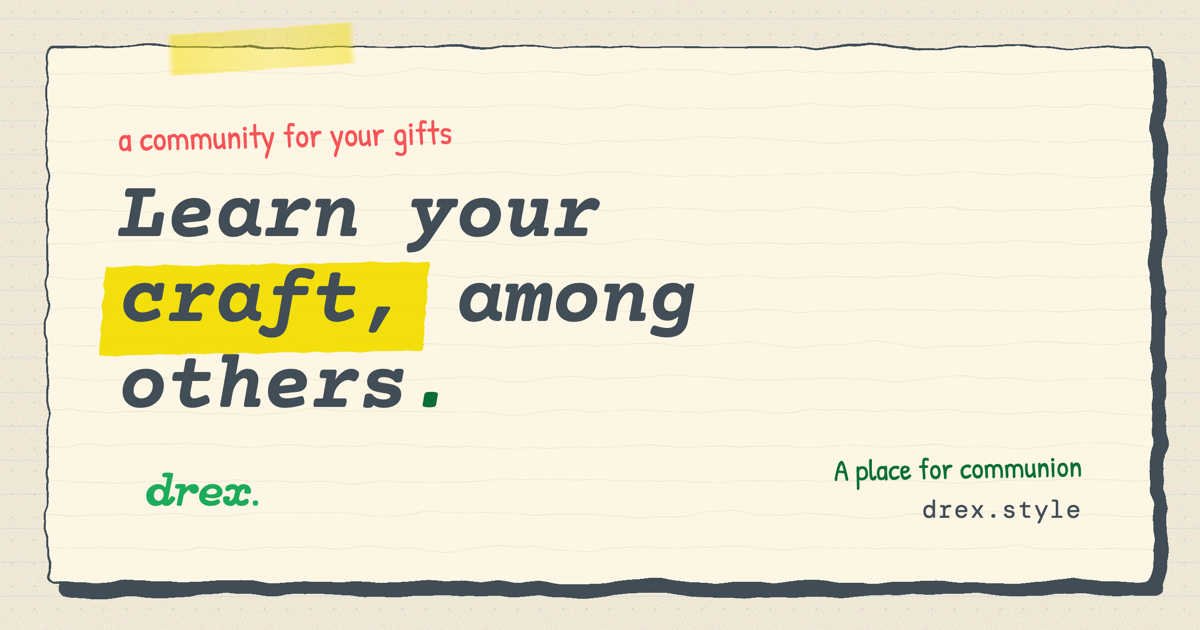
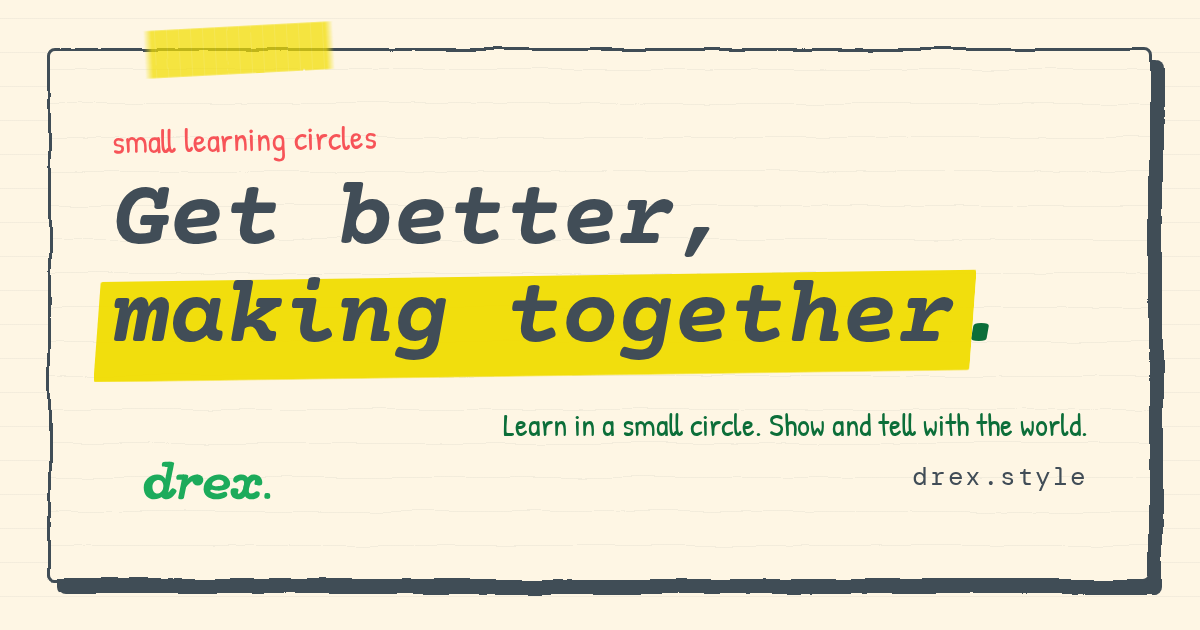
og.png, SF Penmans, cycling reflection-quotes, and a bigger pile
OG CARD — it was three positionings out of date
Every link shared to Slack/iMessage/Twitter previewed "a community for your
gifts", "Learn your craft, among others", and "A place for communion" — including
the exact word we deliberately cut. The meta tags were fixed; the image they point
at was not, and the image is what people see. New card: "small learning circles /
Get better, making together." Built from app.css, and the generator is committed at
tools/og-card.html, so next time the positioning moves the card is a re-render
rather than an archaeology project. (Wait on document.fonts or Patrick Hand
silently falls back to serif.)

THE PILE — three real circles, no blanks, no blurbs
- SF Penmans replaces the empty "your Circle? / unwritten" card. Three real
  circles read as evidence; two-plus-a-blank reads as a thin roster. The invite
  CTA moves to a line underneath, where it does the same job without costing a
  card. Photo + cover are MEDIA PLACEHOLDERs.
- Dropped the blurbs and the issue names. The tab already names the circle; the
  work should do the talking. That freed the height to grow the artefacts ~50%:
  zines 205 -> 322px, polaroids 140 -> 206px, still three across on one row.
- Fixed a real bug: the pile reuses .hand/.bot purely for rotation, but those
  classes also drive tab colour in the main pair (.bot = lazuli, default = ink),
  so the tabs were grey/blue by accident. Each circle now has a deliberate accent.
[…]

diff --git a/app.css b/app.css
@@ -772,109 +772,78 @@ html.sealed .envelope.lit-tape .hero-reel .hero-clip{opacity:1;transform:transla
   color:var(--colorado);font-size:1.2rem;transform:rotate(-1deg)}
 /* The work is the whole point of this section, so give it a wider track than the 1150px .wrap —
    at 1038px inner the zines were shrunk to thumbnails to fit three across. */
-#zine .wrap{max-width:1340px}
+#zine .wrap{max-width:1500px;padding-inline:clamp(1rem,2.2vw,1.75rem)}
 
-/* Empty slots ("on the press", "your portrait", "unwritten") sat on the slate photo background,
-   which at thumbnail size passed but at full size reads as a dead black rectangle — the same
-   failure the hero reel had. A waiting slot should look like a blank page, not a void. */
+/* Empty slots ("on the press", "photo soon") sat on the slate photo background, which at
+   thumbnail size passed but at full size reads as a dead black rectangle — the same failure the
+   hero reel had. A waiting slot should look like a blank page, not a void. */
 .zines .zpola .ph:has(.bot-ico){background:var(--oats);
   box-shadow:inset 0 0 0 2.4px rgba(65,77,87,.22)}
 .zines .zpola .ph:has(.bot-ico) .soon-stamp{color:var(--colorado);border-color:var(--colorado)}
-.zine-pile{display:flex;flex-wrap:wrap;justify-content:center;align-items:flex-start;
-  gap:clamp(1rem,2vw,1.5rem)}
-/* flex items can't shrink below min-content, so the declared width is ignored unless min-width
-   is released; the 40px side margins have to go too or three won't fit the row. */
-.zine-pile .zine-card{width:min(390px,100%);min-width:0;margin-inline:0}
-.zine-pile .zpola.zbook{width:clamp(150px,15vw,205px)}
-.zine-pile .zpola{width:clamp(104px,10vw,140px)}
-.zine-pile .zine-duo .zpola:nth-child(2){margin-left:-14px;margin-top:18px}
-.zine-pile .zpola-cap{font-size:.9rem}
-.zine-pile .zine-card.hand{transform:rotate(-1.4deg)}
-.zine-pile .zine-card.bot{transform:rotate(1.4deg)}
-.zine-pile .zine-card:nth-child(3){transform:rotate(-.6deg)}
-.zine-pile .zine-card:hover{transform:rotate(0) translateY(-5px)}
-.zine-pile .cap{font-size:.82rem;line-height:1.4}
-.zine-pile .zine-tab{font-size:.58rem}
-@media(max-width:480px){.zine-pile .zine-card{transform:rotate(0)}}
 
-/* ---------- THE KIT = a corkboard, not a paragraph ----------
-   Was 288 words of prose that nobody read. Now every tool is a pinned tag: icon + name at a
-   glance, gloss on hover. Grouped by resource type, colour-coded (people are yellow). */
-.kit{padding:clamp(1.8rem,4.5vw,3rem) 0}
-.kit .head{margin-bottom:clamp(1.6rem,3.6vw,2.4rem);text-align:center}
-.kit .head h2{font-family:var(--f-slab);font-style:italic;font-weight:700;font-size:clamp(1.8rem,5.4vw,2.9rem);
-  line-height:.98;margin:.3rem 0 0;color:var(--ink)}
-.kit .head h2 .stop{color:var(--grass-deep)}
-.kit-sub{font-family:var(--f-body);font-style:italic;font-size:clamp(1.02rem,1.7vw,1.26rem);line-height:1.5;
-  color:rgba(65,77,87,.85);max-width:46ch;margin:.85rem auto 0}
+/* THE PILE — three real circles. Blurbs and issue names removed (the tab already names the
+   circle, and the work should do the talking), which frees the height to make the artefacts big.
+   Grid, not flex: three equal columns means the polaroids can be sized as a % of the card and
+   grow with the viewport instead of being pinned to a clamp that was tuned for a narrower track. */
+.pile-lead{text-align:center;margin:clamp(1.6rem,3.4vw,2.2rem) 0 clamp(1rem,2.4vw,1.5rem);
+  color:var(--colorado);font-size:1.2rem;transform:rotate(-1deg)}
+.zine-pile{display:grid;grid-template-columns:repeat(3,1fr);gap:clamp(.6rem,1.2vw,1rem);
+  align-items:start;justify-items:center}
+.zine-pile .zine-card{width:100%;min-width:0;margin-inline:0}
+/* the duo must sum to <= 100% of the card or it escapes the grid cell and pushes the page wide:
+   40 + 66 - 8 = 98%, plus the rotation, still lands inside. */
+.zine-pile .zine-duo{justify-content:center}
+.zine-pile .zpola.zbook{width:66%}
+.zine-pile .zpola{width:40%}
+.zine-pile .zine-duo .zpola:nth-child(2){margin-left:-8%;margin-top:5%}
 
-/* nudge for the hover/tap reveal — otherwise the gloss is an affordance nobody finds */
-.kit-hint{display:flex;align-items:center;justify-content:center;gap:.5rem;
-  margin:0 0 .7rem;color:var(--colorado);font-size:1.12rem;transform:rotate(-1deg)}
-.kit-hint svg{width:34px;height:22px;flex:none;transform:scaleX(-1) rotate(6deg)}
-@media(hover:hover){.kit-hint span::before{content:"hover or ";}}
-
-/* the board: warm cork, speckled, with an ink edge */
-.corkboard{display:grid;grid-template-columns:repeat(3,1fr);gap:clamp(.9rem,2vw,1.5rem);
-  background:#C89F6B;border:3px solid var(--ink);border-radius:8px;
-  box-shadow:10px 11px 0 0 var(--ink), inset 0 0 40px rgba(90,60,25,.28);
-  padding:clamp(.9rem,2vw,1.4rem);
-  background-image:radial-gradient(circle at 20% 30%, rgba(120,80,40,.22) 0 2px, transparent 3px),
-    radial-gradient(circle at 70% 60%, rgba(150,105,55,.2) 0 2.5px, transparent 3px),
-    radial-gradient(circle at 45% 85%, rgba(105,70,35,.18) 0 2px, transparent 3px);
-  background-size:37px 41px, 53px 47px, 29px 33px}
-
-.cluster{position:relative;padding:.5rem .4rem 0}
-.cl-tag{display:inline-block;font-family:var(--f-mono);font-size:.62rem;letter-spacing:.16em;
-  text-transform:uppercase;color:var(--ink);background:var(--c,var(--schoolbus));
-  border:2.2px solid var(--ink);border-radius:4px;padding:.28em .6em;transform:rotate(-1.5deg);
-  box-shadow:2px 2px 0 0 var(--ink)}
-.c-people{--c:var(--schoolbus)}      /* people are yellow */
-.c-virtual{--c:var(--lazuli)}
-.c-material{--c:var(--colorado)}
-.c-virtual .cl-tag,.c-material .cl-tag{color:var(--oats)}
-.cl-line{font-family:var(--f-body);font-size:clamp(.9rem,1.35vw,1.02rem);line-height:1.35;
-  color:#3B2A16;margin:.6rem 0 0;min-height:2.7em;text-shadow:0 1px 0 rgba(255,255,255,.18)}
-.cl-line b{color:#241708}
-.cl-line em{font-style:italic}
-.cl-soon{display:block;font-family:var(--f-mono);font-size:.6rem;letter-spacing:.08em;
-  color:rgba(59,42,22,.75);margin-top:.2rem}
-
-/* the pinned tags. Absolute % offsets overlapped and clipped the names (a cluster column is only
-   ~380px and a tag is ~150px), so they flow instead — the scatter comes from rotation + a small
-   per-item vertical stagger, which cannot collide no matter how the column resizes. */
-.pins{list-style:none;margin:.9rem 0 0;padding:0 0 .6rem;display:flex;flex-wrap:wrap;
-  justify-content:center;align-items:flex-start;gap:.55rem .5rem}
-.pinit:nth-child(2n){margin-top:.85rem}
-.pinit:nth-child(3n){margin-top:.35rem}
-.pinit{position:static;width:clamp(112px,11.5vw,146px);transform:rotate(var(--r,0deg));
-  background:var(--paper);border:2.4px solid var(--ink);border-radius:5px;
-  box-shadow:3px 4px 0 0 rgba(40,26,10,.5);padding:.5rem .45rem .45rem;text-align:center;
-  transition:transform .16s ease, box-shadow .16s ease;cursor:default}
-.pinit:hover,.pinit:focus-within{transform:rotate(0) translateY(-5px) scale(1.04);z-index:4;
-  box-shadow:6px 8px 0 0 rgba(40,26,10,.55)}
-.pin{position:absolute;top:-7px;left:50%;margin-left:-6px;width:12px;height:12px;border-radius:50%;
-  background:var(--c,var(--colorado));border:2px solid var(--ink);
-  box-shadow:1px 1px 0 0 rgba(40,26,10,.5)}
-.pinic{display:block;width:clamp(28px,3.2vw,36px);height:clamp(28px,3.2vw,36px);margin:.15rem auto .3rem}
-.pinit b{display:block;font-family:var(--f-slab);font-style:italic;font-weight:700;
-  font-size:clamp(.74rem,1vw,.84rem);line-height:1.15;color:var(--ink)}
-/* the gloss is the only prose, and it stays hidden until you ask for it */
-.pinit i{display:block;font-family:var(--f-hand);font-style:normal;font-size:.82rem;line-height:1.15;
-  color:var(--colorado);max-height:0;opacity:0;overflow:hidden;
-  transition:max-height .16s ease, opacity .16s ease, margin-top .16s ease}
-.pinit:hover i,.pinit:focus-within i{max-height:3.2em;opacity:1;margin-top:.25rem}
-
-@media(hover:none){                      /* no hover on touch — never hide the meaning */
-  .pinit i{max-height:3.2em;opacity:1;margin-top:.25rem}
+/* the invite line under the pile — replaces the old empty "your Circle?" card, so the pile can be
+   three real circles instead of two and a blank. */
+.pile-cta{text-align:center;margin:clamp(1.6rem,3.2vw,2.2rem) auto 0;max-width:46ch;
+  font-family:var(--f-body);font-style:italic;font-size:clamp(1.02rem,1.6vw,1.18rem);
+  color:rgba(65,77,87,.8)}
+.pile-cta a{font-style:normal;font-family:var(--f-mono);font-size:.82rem;letter-spacing:.08em;
+  text-transform:uppercase;color:var(--grass-deep);text-decoration:underline;
+  text-decoration-thickness:1.5px;text-underline-offset:3px;text-decoration-color:rgba(12,110,57,.45);
+  white-space:nowrap}
+.pile-cta a:hover{text-decoration-color:var(--grass-deep)}
+/* The pile reuses .hand/.bot purely for rotation, but those classes also drive tab colour in the
+   main pair (.bot = lazuli, default = ink). So the pile's tabs came out grey/blue by accident,
+   which reads as a distinction that means nothing. Give each circle its own accent, deliberately. */
+.zine-pile .zine-tab{font-size:.62rem;background:transparent;color:var(--oats)}
+.zine-pile .zine-card:nth-child(1) .zine-tab{--tabbg:var(--colorado)}
+.zine-pile .zine-card:nth-child(2) .zine-tab{--tabbg:var(--lazuli)}
+.zine-pile .zine-card:nth-child(3) .zine-tab{--tabbg:var(--grass-deep)}
+@media(max-width:820px){
+  .zine-pile{grid-template-columns:1fr;gap:1.6rem}
+  .zine-pile .zine-card{max-width:420px}
 }
-@media(max-width:900px){
-  .corkboard{grid-template-columns:1fr;gap:1.6rem}
-  .pins{height:auto;display:flex;flex-wrap:wrap;justify-content:center;gap:.7rem}
-  .pinit{position:static;transform:rotate(var(--r,0deg))}
-  .cl-line{min-height:0}
+
+/* ---------- the quotes = vicarious experience, drawn ----------
+   A torn note that cycles. Only one quote is visible at a time, so three testimonials cost the
+   page the vertical space of one — the whole point of this pass: same content, less felt weight. */
+.quotes{position:relative;isolation:isolate;width:min(680px,94vw);
+  margin:clamp(2rem,4.4vw,3rem) auto 0;padding:clamp(1.6rem,3.2vw,2.2rem) clamp(1.4rem,3vw,2rem) clamp(1.1rem,2.4vw,1.5rem);
+  transform:rotate(-.6deg);text-align:center}
+.quotes::before{content:"";position:absolute;inset:0;z-index:-1;background:var(--paper);
+  border:2.6px solid var(--ink);border-radius:7px;box-shadow:8px 9px 0 0 var(--ink);
+  filter:url(#torn);animation:boil-torn var(--boil-paper) step-end infinite;animation-delay:-1.6s}
+.q-mark{position:absolute;top:-.35em;left:.35em;font-family:var(--f-slab);font-style:italic;
+  font-weight:700;font-size:clamp(4rem,8vw,6rem);line-height:1;color:var(--happy);z-index:-1}
+/* the stack: every quote occupies the same cell, so the box never jumps as they cycle */
+.q-list{display:grid}
+.q{grid-area:1/1;margin:0;opacity:0;transform:translateY(6px);pointer-events:none;
+  transition:opacity .5s ease, transform .5s ease}
+.q.is-on{opacity:1;transform:none;pointer-events:auto}
+.q p{margin:0;font-family:var(--f-slab);font-style:italic;font-weight:700;
+  font-size:clamp(1.15rem,2.3vw,1.6rem);line-height:1.28;color:var(--ink);text-wrap:balance}
+.q cite{display:block;margin-top:.85rem;font-style:normal;font-family:var(--f-mono);
+  font-size:.7rem;letter-spacing:.1em;text-transform:uppercase;color:rgba(65,77,87,.6)}
+.q cite b{color:var(--grass-deep)}
+.q-foot{margin:1.3rem 0 0;color:var(--colorado);font-size:1.05rem;line-height:1.3;transform:rotate(-.8deg)}
+@media(prefers-reduced-motion:reduce){
+  .q{transition:none}
 }
-@media(prefers-reduced-motion:reduce){.pinit{transition:none}}
 
 /* ---------- bring your group = the organizer's door ---------- */
 .bring{padding:clamp(1.5rem,4vw,2.6rem) 0}

diff --git a/index.html b/index.html
@@ -23,7 +23,7 @@
 <link rel="preconnect" href="https://fonts.gstatic.com" crossorigin>
 <link rel="stylesheet" href="https://fonts.googleapis.com/css2?family=Bitter:ital,wght@0,300;0,400;0,600;1,400;1,600&family=Courier+Prime:ital,wght@0,400;0,700;1,400;1,700&family=DM+Mono:wght@400;500&family=Patrick+Hand&display=swap" />
 
-<link rel="stylesheet" href="app.css?v=109" />
+<link rel="stylesheet" href="app.css?v=112" />
 <script>
   // Mark JS, and SEAL the hero envelope before first paint (no FOUC) — but only
   // when motion is allowed. reduced-motion shows the hero normally. A failsafe
@@ -513,45 +513,73 @@
           <span class="zine-tab">XChange Fashion</span>
           <div class="zine-duo">
             <a class="zpola" href="https://xchange.fashion/" target="_blank" rel="noopener" aria-label="XChange Fashion &mdash; the community behind the XChange Models Circle">
-              <span class="ph"><img src="assets/zines/xchange-makers.jpg" alt="A model with a parasol posing at XChange's red-lit gate" loading="lazy" width="600" height="720" /></span>
-              <span class="zpola-cap">XChange Fashion <span class="arr">&rarr;</span></span>
+              <span class="ph"><img src="assets/zines/xchange-makers.jpg" alt="A model with a parasol posing at XChange's red-lit gate" loading="lazy" width="600" height="720" /></span></span>
             </a>
             <a class="zpola is-zine zbook" href="https://demo.drex.style/z/2020eaf7-fc6f-47c1-a264-c30d8ea3fc23" target="_blank" rel="noopener" aria-label="Read &ldquo;Silk Road 001&rdquo; &mdash; XChange Models' published issue">
-              <span class="ph"><img src="assets/zines/silk-road-cover.jpg" alt="A page of &ldquo;Silk Road 001&rdquo; &mdash; a model on a lantern-lit floor with a pull quote" loading="lazy" width="700" height="875" /></span>
-              <span class="zpola-cap">&ldquo;Silk Road 001&rdquo; <span class="arr">&rarr;</span></span>
+              <span class="ph"><img src="assets/zines/silk-road-cover.jpg" alt="A page of &ldquo;Silk Road 001&rdquo; &mdash; a model on a lantern-lit floor with a pull quote" loading="lazy" width="700" height="875" /></span></span>
             </a>
           </div>
-          <figcaption class="cap">models &amp; fashion makers convene every second Friday &mdash; eleven of them bound their runway night into &ldquo;Silk Road 001&rdquo;</figcaption>
         </figure>
         <figure class="zine-card bot">
           <span class="zine-tab">Photo Phloor</span>
           <div class="zine-duo">
             <a class="zpola" href="https://www.instagram.com/photo.phloor/" target="_blank" rel="noopener" aria-label="Photo Phloor on Instagram &mdash; an SF photography collective">
-              <span class="ph"><img src="assets/zines/phloor-makers.jpg" alt="Photo Phloor's poster &mdash; a lone streetlight over a dark walkway at night" loading="lazy" width="600" height="720" /></span>
-              <span class="zpola-cap">@photo.phloor <span class="arr">&rarr;</span></span>
+              <span class="ph"><img src="assets/zines/phloor-makers.jpg" alt="Photo Phloor's poster &mdash; a lone streetlight over a dark walkway at night" loading="lazy" width="600" height="720" /></span></span>
             </a>
             <div class="zpola is-zine is-ghost zbook" role="img" aria-label="Photo Phloor's first issue &mdash; on the press">
               <span class="ph"><span class="bot-ico" aria-hidden="true"><svg viewBox="0 0 64 64" fill="none" stroke="var(--grass-deep)" stroke-width="2.6" stroke-linecap="round" stroke-linejoin="round"><path d="M32 20 C26 16 18 16 12 18 V46 C18 44 26 44 32 48 C38 44 46 44 52 46 V18 C46 16 38 16 32 20 Z"/><path d="M32 20 V48"/></svg></span><span class="soon-stamp">on the press</span></span>
-              <span class="zpola-cap">issue 001</span>
             </div>
           </div>
-          <figcaption class="cap">an SF photography collective &mdash; specializing in &ldquo;documenting the overlooked&rdquo;</figcaption>
         </figure>
+        <!-- SF PENMANS — third real circle. Replaces the empty "your Circle? / unwritten" slot:
+             three real circles read as evidence, two-plus-a-blank reads as a thin roster.
+             MEDIA PLACEHOLDER x2: (1) a photo of the Penmans at a table, nibs and ink out, and
+             (2) their issue cover. Swap the two .ph blocks below and drop the soon-stamps. -->
         <figure class="zine-card hand">
-          <span class="zine-tab">your Circle?</span>
+          <span class="zine-tab">SF Penmans</span>
           <div class="zine-duo">
-            <div class="zpola is-vid" role="img" aria-label="An open portrait slot &mdash; waiting for the next Circle">
-              <span class="ph"><span class="bot-ico" aria-hidden="true"><svg viewBox="0 0 64 64" fill="none" stroke="var(--colorado)" stroke-width="2.6" stroke-linecap="round" stroke-linejoin="round"><path d="M10 22 H22 l4 -6 H38 l4 6 H54 a3 3 0 0 1 3 3 V46 a3 3 0 0 1 -3 3 H10 a3 3 0 0 1 -3 -3 V25 a3 3 0 0 1 3 -3 Z"/><circle cx="32" cy="35" r="9"/></svg></span><span class="soon-stamp">your portrait</span></span>
-              <span class="zpola-cap">you?</span>
+            <div class="zpola is-vid" role="img" aria-label="SF Penmans &mdash; photo coming soon">
+              <span class="ph"><span class="bot-ico" aria-hidden="true"><svg viewBox="0 0 64 64" fill="none" stroke="var(--colorado)" stroke-width="2.6" stroke-linecap="round" stroke-linejoin="round"><path d="M42 10 L54 22 L26 50 L12 52 L14 38 Z"/><path d="M40 12 L52 24"/><path d="M12 52 L20 44"/></svg></span><span class="soon-stamp">photo soon</span></span>
             </div>
-            <div class="zpola is-zine is-ghost zbook" role="img" aria-label="An open zine slot &mdash; your Circle's first issue">
-              <span class="ph"><span class="bot-ico" aria-hidden="true"><svg viewBox="0 0 64 64" fill="none" stroke="var(--grass-deep)" stroke-width="2.6" stroke-linecap="round" stroke-linejoin="round"><path d="M32 20 C26 16 18 16 12 18 V46 C18 44 26 44 32 48 C38 44 46 44 52 46 V18 C46 16 38 16 32 20 Z"/><path d="M32 20 V48"/></svg></span><span class="soon-stamp">unwritten</span></span>
-              <span class="zpola-cap">your issue</span>
+            <div class="zpola is-zine is-ghost zbook" role="img" aria-label="SF Penmans &mdash; first issue on the press">
+              <span class="ph"><span class="bot-ico" aria-hidden="true"><svg viewBox="0 0 64 64" fill="none" stroke="var(--grass-deep)" stroke-width="2.6" stroke-linecap="round" stroke-linejoin="round"><path d="M32 20 C26 16 18 16 12 18 V46 C18 44 26 44 32 48 C38 44 46 44 52 46 V18 C46 16 38 16 32 20 Z"/><path d="M32 20 V48"/></svg></span><span class="soon-stamp">on the press</span></span>
             </div>
           </div>
-          <figcaption class="cap">this wall is open &mdash; <a href="https://letters.drex.style/join-online/">request an invite <span class="arr">&rarr;</span></a></figcaption>
         </figure>
       </div>
+
+      <!-- THE QUOTES. Not decoration — this is the conversion mechanism. Bandura (via Chielo's
+           research): the strongest driver of self-efficacy is vicarious experience, i.e. seeing
+           similar others succeed. So: real people, one step ahead of the reader, in their own words.
+
+           The lovely part is we don't have to solicit these. Every quote is somebody's REFLECTION
+           ANSWER, lifted straight out of an issue — the reflection question manufactures
+           testimonials as a byproduct. The first one is real (it's the pull-quote on the Silk Road
+           001 cover). The rest are PLACEHOLDERS: swap the text + cite, keep the shape.
+
+           MEDIA PLACEHOLDER: the in-circle interview videos belong right here. Ideal shape is a
+           small round video thumb to the left of the quote, tapping to open the clip — the face
+           saying it is worth more than the words. -->
+      <figure class="quotes" aria-label="What members wrote in their reflections">
+        <span class="q-mark" aria-hidden="true">&ldquo;</span>
+        <div class="q-list">
+          <blockquote class="q is-on">
+            <p>Since I'm capable of doing something like that, I feel like I could do anything.</p>
+            <cite>a maker in <b>XChange Models</b> &middot; from &ldquo;Silk Road 001&rdquo;</cite>
+          </blockquote>
+          <blockquote class="q">
+            <p>I'd been meaning to start for three years. It took four people expecting me on a Tuesday.</p>
+            <cite><b>placeholder</b> &middot; swap for a real reflection</cite>
+          </blockquote>
+          <blockquote class="q">
+            <p>I didn't know my handwriting could look like that. I just hadn't done it twelve times in a row before.</p>
+            <cite><b>placeholder</b> &middot; swap for a real reflection</cite>
+          </blockquote>
+        </div>
+        <figcaption class="q-foot scrawl">&uarr; nobody asked them for a testimonial. these are their reflection answers, lifted out of the issues.</figcaption>
+      </figure>
+
+      <p class="pile-cta">This wall is open. <a href="https://letters.drex.style/join-online/">Put your circle on it <span class="arr">&rarr;</span></a></p>
     </div>
   </section>
 
@@ -1109,7 +1137,7 @@
   </div>
 </footer>
 
-<script type="module" src="app.js?v=62"></script>
+<script type="module" src="app.js?v=63"></script>
 
 <!-- GoatCounter — privacy-friendly analytics, no cookies/consent banner. QR
      attribution rides on the ?ref= query param (GoatCounter's built-in campaign

diff --git a/tools/og-card.html b/tools/og-card.html
@@ -1,0 +1,63 @@
+<!doctype html>
+<html lang="en" class="og">
+<head>
+<meta charset="utf-8">
+<link rel="preconnect" href="https://fonts.googleapis.com">
+<link rel="preconnect" href="https://fonts.gstatic.com" crossorigin>
+<link rel="stylesheet" href="https://fonts.googleapis.com/css2?family=Bitter:ital,wght@0,300;0,400;0,600;1,400;1,600&family=Courier+Prime:ital,wght@0,400;0,700;1,400;1,700&family=DM+Mono:wght@400;500&family=Patrick+Hand&display=swap" />
+<link rel="stylesheet" href="../app.css?v=109">
+<style>
+  /* 1200x630 social card. Built from the site's own CSS so it can never drift from the brand
+     again. Rendered with browse at 1200x630 and saved over assets/og.png. */
+  html,body{margin:0;padding:0;background:var(--oats);width:1200px;height:630px;overflow:hidden}
+  body{background:var(--oats) repeating-linear-gradient(0deg,transparent 0 33px,rgba(65,77,87,.055) 33px 34px)}
+  .og-stage{position:relative;width:1200px;height:630px;display:grid;place-items:center}
+  .og-card{position:relative;width:1104px;height:534px;isolation:isolate}
+  .og-card>.sheet{position:absolute;inset:0;z-index:0;background:var(--paper);
+    background-image:repeating-linear-gradient(0deg,transparent 0 33px,rgba(65,77,87,.06) 33px 34px);
+    border:3px solid var(--ink);border-radius:8px;filter:url(#torn);box-shadow:11px 12px 0 0 var(--ink)}
+  .og-in{position:relative;z-index:2;padding:58px 64px;height:100%;box-sizing:border-box;
+    display:flex;flex-direction:column}
+  .og-eyebrow{font-family:var(--f-hand);font-size:34px;color:var(--colorado);
+    transform:rotate(-1deg);margin:0 0 14px}
+  .og-h{font-family:var(--f-slab);font-style:italic;font-weight:700;font-size:96px;line-height:1.02;
+    letter-spacing:-.02em;color:var(--ink);margin:0}
+  .og-h .hl{position:relative;display:inline;z-index:0}
+  .og-h .hl::before{content:"";position:absolute;left:-.16em;right:-.2em;top:.1em;bottom:-.02em;z-index:-1;
+    background:var(--happy);mix-blend-mode:multiply;transform:rotate(-.8deg) skewX(-5deg);
+    filter:url(#rough);border-radius:2px}
+  .og-h .stop{color:var(--grass-deep)}
+  .og-foot{margin-top:auto;display:flex;align-items:flex-end;justify-content:space-between}
+  .og-mark{width:190px;height:auto;display:block}
+  .og-url{font-family:var(--f-mono);font-size:26px;letter-spacing:.06em;color:var(--sambas);text-align:right}
+  .og-url b{display:block;font-family:var(--f-hand);font-weight:400;font-size:32px;
+    color:var(--grass-deep);letter-spacing:0;margin-bottom:6px}
+  .tape{position:absolute;width:190px;height:48px;background:var(--happy);opacity:.72;
+    top:-22px;left:96px;transform:rotate(-3deg);z-index:3;filter:url(#roughsm)}
+</style>
+</head>
+<body>
+<svg width="0" height="0" style="position:absolute" aria-hidden="true">
+  <filter id="rough"><feTurbulence type="fractalNoise" baseFrequency="0.028" numOctaves="3" seed="7" result="n"/><feDisplacementMap in="SourceGraphic" in2="n" scale="3.2" xChannelSelector="R" yChannelSelector="G"/></filter>
+  <filter id="roughsm"><feTurbulence type="fractalNoise" baseFrequency="0.04" numOctaves="2" seed="3" result="n"/><feDisplacementMap in="SourceGraphic" in2="n" scale="2.2" xChannelSelector="R" yChannelSelector="G"/></filter>
+  <filter id="torn"><feTurbulence type="fractalNoise" baseFrequency="0.014" numOctaves="4" seed="11" result="n"/><feDisplacementMap in="SourceGraphic" in2="n" scale="7" xChannelSelector="R" yChannelSelector="G"/></filter>
+</svg>
+
+<div class="og-stage">
+  <div class="og-card">
+    <span class="sheet"></span>
+    <span class="tape"></span>
+    <div class="og-in">
+      <p class="og-eyebrow">small learning circles</p>
+      <h1 class="og-h">Get&nbsp;better,<br><span class="hl">making&nbsp;together</span><span class="stop">.</span></h1>
+      <div class="og-foot">
+        <svg class="og-mark" viewBox="0 0 14696 6730" fill="#1CAB5B" role="img" aria-label="drex">
+          <path d="M5478.999,2905.779c0,0 421.063,-37.36 425.9,108.343l-343.709,1707.337c-61.242,136.313 -436.173,134.324 -442.946,-22.416l360.754,-1793.265Z"/><path d="M5041.89,2951.676c63.511,-60.841 526.771,-49.633 526.771,-49.633l-102.739,405.414c0,0 -396.752,19.539 -449.056,-24.346c-70.672,-59.297 -57.436,-252.443 25.024,-331.436Z"/><path d="M3924.681,1958.721c63.511,-60.841 530.662,-50.446 530.662,-50.446l-106.63,406.227c0,0 -396.752,19.539 -449.056,-24.346c-70.672,-59.297 -57.436,-252.443 25.024,-331.436Z"/><path d="M5726.866,3417.607c0,0 256.489,-511.828 914.019,-511.828l-313.821,549.187c0,0 -52.304,-37.36 -119.551,-37.36c-40.411,0 -354.324,251.272 -556.659,579.075l76.013,-579.075Z"/><ellipse cx="6634.347" cy="3332.931" rx="430.57" ry="427.151"/><path d="M4268.545,3833.937c-54.051,587.803 -422.164,984.658 -1012.447,984.658c-466.996,0 -803.233,-354.917 -803.233,-919.048c0,-545.451 486.888,-993.767 1032.339,-993.767c668.793,0 813.229,603.128 783.342,928.157Zm-643.455,-498.703c-234.497,-17.38 -499.751,191.996 -499.751,524.336c0,438.408 306.192,521.14 448.316,514.446c142.124,-6.694 404.43,-206.606 404.43,-554.612c0,-284.788 -150.331,-469.149 -352.995,-484.17Z"/><path d="M4388.096,1908.276c0,0 411.204,-11.208 424.724,108.343c0,19.142 -451.623,2260.261 -451.623,2260.261c15.69,59.775 224.905,-302.557 315.685,-313.821c110.397,-13.699 320.176,120.344 320.176,210.008c-0,122.494 -381.069,648.499 -765.873,648.499c-140.399,0 -328.765,-47.802 -392.277,-174.825l549.187,-2738.465Z"/><path d="M8385.582,2902.043c497.354,57.086 817.745,422.164 739.722,818.177c-90.045,457.032 -844.694,445.003 -1082.497,417.708c-230.119,-26.413 -368.235,-100.848 -422.572,-20.593c0,0 -107.744,106.625 251.184,223.032c419.614,136.089 691.752,-83.334 866.656,-96.072c140.311,-10.219 217.565,170.071 168.209,286.302c-66.995,157.772 -494.323,338.135 -1028.793,276.789c-285.793,-32.803 -922.08,-269.802 -773.345,-1004.975c130.759,-646.322 784.083,-957.454 1281.437,-900.368Zm-212.016,404.392c-264.608,50.886 -442.712,200.115 -438.042,342.082c4.67,141.967 311.61,175.439 541.715,149.439c165.317,-18.68 362.389,-47.848 366.125,-257.062c3.213,-179.919 -275.528,-271.818 -469.798,-234.459Z"/><path d="M9206.516,4052.426c-70.533,107.48 -90.728,764.251 662.245,766.169c771.79,1.966 1183.203,-1911.019 149.439,-1912.816c-257.116,-0.447 -637.291,99.928 -646.668,437.503c-3.838,138.152 129.653,198.923 237.929,188.041c127.279,-12.792 188.555,-176.528 452.832,-176.528c264.278,0 131.209,448.7 79.402,619.471c-101.286,333.868 -336.519,428.184 -390.245,405.158c-60.791,-26.053 81.561,-246.308 11.513,-333.868c-61.401,-76.751 -475.858,-115.932 -556.447,6.87Z"/><path d="M11593.807,3675.684c70.533,-107.48 91.02,-767.987 -661.952,-769.905c-771.79,-1.966 -1183.496,1911.019 -149.731,1912.816c257.116,0.447 637.291,-96.192 646.668,-433.767c3.838,-138.152 -129.653,-198.923 -237.929,-188.041c-127.279,12.792 -188.555,176.528 -452.832,176.528c-264.278,0 -131.209,-448.7 -79.402,-619.471c101.286,-333.868 336.519,-428.184 390.245,-405.158c60.791,26.053 -81.561,246.308 -11.513,333.868c61.401,76.751 475.858,115.932 556.447,-6.87Z"/><path d="M11830.971,4385.014c61.784,-59.74 306.841,-59.74 367.586,0c60.745,59.74 58.668,298.701 -3.115,358.441c-61.784,59.74 -306.841,59.74 -367.586,0c-60.745,-59.74 -58.668,-298.701 3.115,-358.441Z"/>
+        </svg>
+        <p class="og-url"><b>Learn in a small circle. Show and tell with the world.</b>drex.style</p>
+      </div>
+    </div>
+  </div>
+</div>
+</body>
+</html>

diff --git a/app.js b/app.js
@@ -150,6 +150,7 @@ function boot() {
   initFinale();                     // M5: tear off EVERY piece → the site crumples → "we love people like you"
   initHowGag();                     // tap "every week" → the words stop, the ring spins instead
   initHeroRotate();                 // hero "week" gets retyped: month, 2nd Friday, other week…
+  initQuotes();                     // the reflection-answer quotes cycle in place
   // Hovering a card/polaroid grows its hard shadow under a live SVG filter —
   // a burst of quick re-rasters of a big sheet. That's a known, brief,
   // self-inflicted stall (same idea as the crumple capture at pauseFps(2500)):
@@ -267,6 +268,42 @@ function fillGutters() {
   // Re-calling it would double-bind the scroll listener; instead just settle them in directly.
   // They keep the CSS wobble; they forgo parallax, which is a nicety nobody will miss.
   if (fresh.length) requestAnimationFrame(() => fresh.forEach((s) => s.classList.add('cg-in')));
+}
+
+/* Cycle the reflection quotes. They share one grid cell, so three cost the height of one.
+   Pauses on hover/focus so nobody loses a sentence mid-read; under reduced-motion it just
+   shows the first and stops. */
+function initQuotes() {
+  const list = document.querySelector('.q-list');
+  if (!list) return;
+  const qs = Array.prototype.slice.call(list.querySelectorAll('.q'));
+  if (qs.length < 2) return;
+  if (Stage.reduce) return;
+
+  let i = 0, held = false, timer = null;
+  const show = (n) => {
+    qs.forEach((q, k) => q.classList.toggle('is-on', k === n));
+  };
+  const tick = () => {
+    if (!held) { i = (i + 1) % qs.length; show(i); }
+    timer = setTimeout(tick, 6200);
+  };
+  const box = list.closest('.quotes');
+  ['pointerenter', 'focusin'].forEach((e) => box.addEventListener(e, () => { held = true; }, { passive: true }));
+  ['pointerleave', 'focusout'].forEach((e) => box.addEventListener(e, () => { held = false; }, { passive: true }));
+
+  // don't burn a cycle while the section is off screen
+  if ('IntersectionObserver' in window) {
+    const io = new IntersectionObserver((es) => {
+      es.forEach((e) => {
+        if (e.isIntersecting && !timer) timer = setTimeout(tick, 6200);
+        else if (!e.isIntersecting && timer) { clearTimeout(timer); timer = null; }
+      });
+    }, { threshold: 0.25 });
+    io.observe(box);
+  } else {
+    timer = setTimeout(tick, 6200);
+  }
 }
 
 function initHeroRotate() {